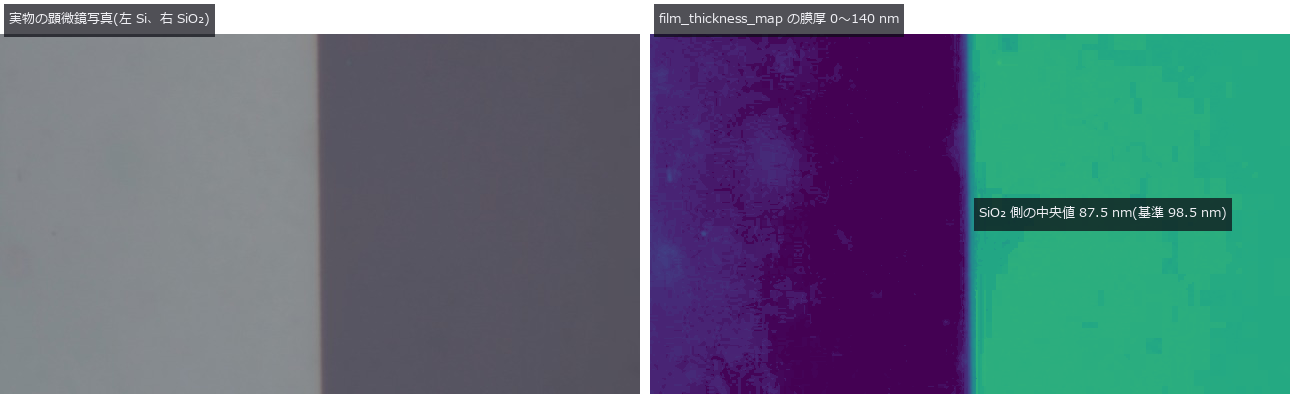
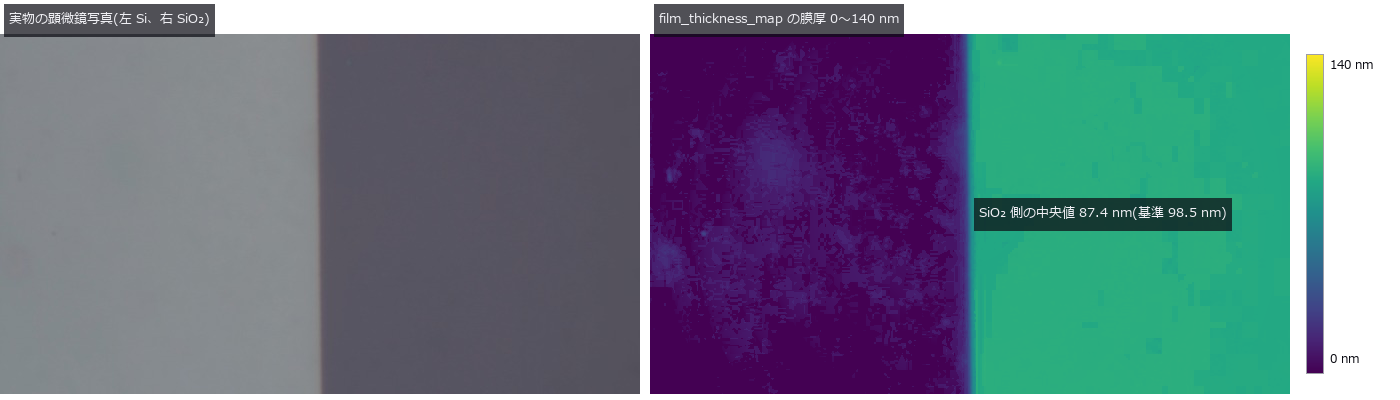
薄膜 PoC の実物の写真: 膜厚マップに色の目盛り + 周辺減光を裸の Si だけで当てはめて割る(Si 側が 2 段に見えた原因)
- 原因: 写真は視野の中心が明るい周辺減光(端で -8.8 %)。0 nm 付近は反射率が膜厚の 2 乗でしか下がらないので、Si 側の暗い所が
  10〜17 nm の「薄い膜」に化け、明るい所は 0 nm に張り付いて 2 段に見えた。
- 直し: 減光 V = c0 + c1 r² を裸の Si の側だけで当てはめて視野全体を割る。SiO2 側(当てはめに未使用)の明るさの傾きが
  -11.0 % → -1.1 % になる門を足した(独立の検算)。Si 側は中央値 0.0 nm・95 パーセンタイル 12 nm、SiO2 側は中央値 87.4 nm
  (5〜95 パーセンタイル 84.2〜87.9 nm)。図の説明に理由と数字を書いた。門 37 件。
- 膜厚マップに色の目盛り(annotate_colorbar、0〜140 nm)。

Changed region(s): [[0.4341, 0.0, 1.0, 0.99], [0.2171, 0.06, 0.2481, 0.99], [0.0, 0.0, 0.186, 0.09]]

diff --git a/studio_assets/op_help/annotate/annotate_colorbar.hi.html b/studio_assets/op_help/annotate/annotate_colorbar.hi.html
@@ -27,6 +27,7 @@
 <p style="margin:2px 0 2px 12px">• Algorithm का मानक स्रोत (लेखक, वर्ष) और उपयोग ऊपर की <b>family usage guide</b> में दिए गए हैं।</p>
 <h3 style="color:#17b8a6;margin:10px 0 2px 0">चलाए जा सकने वाले उदाहरण (verified samples जो सच में यह op call करते हैं)</h3>
 <p style="margin:2px 0 2px 12px">• <a style="color:#22d3bf" href="example2d:paper_figure">paper_figure</a> — <code style="color:#22d3bf">py -3.11 examples/paper_figure.py</code></p>
+<p style="margin:2px 0 2px 12px">• <a style="color:#22d3bf" href="example2d:poc_thin_film_reflectometry">poc_thin_film_reflectometry</a> — <code style="color:#22d3bf">py -3.11 examples/poc_thin_film_reflectometry.py</code></p>
 <h3 style="color:#17b8a6;margin:10px 0 2px 0">वे अगले ops जिनसे type जुड़ता है (<code style="color:#22d3bf">image2d</code> को input के रूप में लेते हैं)</h3>
 <p><a style="color:#22d3bf" href="opannotate:text_box">text_box</a> · <a style="color:#22d3bf" href="opannotate:arrow">arrow</a> · <a style="color:#22d3bf" href="opannotate:leader_line">leader_line</a> · <a style="color:#22d3bf" href="opannotate:label_points">label_points</a> · <a style="color:#22d3bf" href="opannotate:crosshair">crosshair</a> · <a style="color:#22d3bf" href="opannotate:legend_box">legend_box</a> · <a style="color:#22d3bf" href="opannotate:color_bar">color_bar</a> · <a style="color:#22d3bf" href="opannotate:scale_bar">scale_bar</a></p>
 <h3 style="color:#17b8a6;margin:10px 0 2px 0">इसी category के (<code style="color:#22d3bf">paper</code>)</h3>

diff --git a/studio_assets/op_help/annotate/annotate_colorbar.ko.html b/studio_assets/op_help/annotate/annotate_colorbar.ko.html
@@ -27,6 +27,7 @@
 <p style="margin:2px 0 2px 12px">• 알고리즘의 정전(저자·연도)과 용도는 위의 <b>패밀리 사용 가이드</b>에 적혀 있습니다.</p>
 <h3 style="color:#17b8a6;margin:10px 0 2px 0">실행 가능한 예제(이 연산자를 실제로 호출하는 검증된 샘플)</h3>
 <p style="margin:2px 0 2px 12px">• <a style="color:#22d3bf" href="example2d:paper_figure">paper_figure</a> — <code style="color:#22d3bf">py -3.11 examples/paper_figure.py</code></p>
+<p style="margin:2px 0 2px 12px">• <a style="color:#22d3bf" href="example2d:poc_thin_film_reflectometry">poc_thin_film_reflectometry</a> — <code style="color:#22d3bf">py -3.11 examples/poc_thin_film_reflectometry.py</code></p>
 <h3 style="color:#17b8a6;margin:10px 0 2px 0">타입이 이어지는 다음 연산자(<code style="color:#22d3bf">image2d</code> 를 입력으로 받는 것)</h3>
 <p><a style="color:#22d3bf" href="opannotate:text_box">text_box</a> · <a style="color:#22d3bf" href="opannotate:arrow">arrow</a> · <a style="color:#22d3bf" href="opannotate:leader_line">leader_line</a> · <a style="color:#22d3bf" href="opannotate:label_points">label_points</a> · <a style="color:#22d3bf" href="opannotate:crosshair">crosshair</a> · <a style="color:#22d3bf" href="opannotate:legend_box">legend_box</a> · <a style="color:#22d3bf" href="opannotate:color_bar">color_bar</a> · <a style="color:#22d3bf" href="opannotate:scale_bar">scale_bar</a></p>
 <h3 style="color:#17b8a6;margin:10px 0 2px 0">같은 카테고리(<code style="color:#22d3bf">paper</code>)</h3>

diff --git a/studio_assets/op_help/annotate/annotate_colorbar.de.html b/studio_assets/op_help/annotate/annotate_colorbar.de.html
@@ -27,6 +27,7 @@
 <p style="margin:2px 0 2px 12px">• Der kanonische Algorithmus (Autor, Jahr) und seine Anwendungen stehen im <b>Familienleitfaden</b> oben.</p>
 <h3 style="color:#17b8a6;margin:10px 0 2px 0">Ausführbare Beispiele (verifizierte Samples, die diesen Operator wirklich aufrufen)</h3>
 <p style="margin:2px 0 2px 12px">• <a style="color:#22d3bf" href="example2d:paper_figure">paper_figure</a> — <code style="color:#22d3bf">py -3.11 examples/paper_figure.py</code></p>
+<p style="margin:2px 0 2px 12px">• <a style="color:#22d3bf" href="example2d:poc_thin_film_reflectometry">poc_thin_film_reflectometry</a> — <code style="color:#22d3bf">py -3.11 examples/poc_thin_film_reflectometry.py</code></p>
 <h3 style="color:#17b8a6;margin:10px 0 2px 0">Typkompatible Folge-Operatoren (nehmen <code style="color:#22d3bf">image2d</code> als Eingabe)</h3>
 <p><a style="color:#22d3bf" href="opannotate:text_box">text_box</a> · <a style="color:#22d3bf" href="opannotate:arrow">arrow</a> · <a style="color:#22d3bf" href="opannotate:leader_line">leader_line</a> · <a style="color:#22d3bf" href="opannotate:label_points">label_points</a> · <a style="color:#22d3bf" href="opannotate:crosshair">crosshair</a> · <a style="color:#22d3bf" href="opannotate:legend_box">legend_box</a> · <a style="color:#22d3bf" href="opannotate:color_bar">color_bar</a> · <a style="color:#22d3bf" href="opannotate:scale_bar">scale_bar</a></p>
 <h3 style="color:#17b8a6;margin:10px 0 2px 0">Gleiche Kategorie (<code style="color:#22d3bf">paper</code>)</h3>

diff --git a/studio_assets/op_help/annotate/annotate_colorbar.html b/studio_assets/op_help/annotate/annotate_colorbar.html
@@ -27,6 +27,7 @@
 <p style="margin:2px 0 2px 12px">• アルゴリズムの正典(著者・年)と用途は上記<b>ファミリ使い方ガイド</b>に記載。</p>
 <h3 style="color:#17b8a6;margin:10px 0 2px 0">実行できる例(この op を実際に呼ぶ検証済みサンプル)</h3>
 <p style="margin:2px 0 2px 12px">• <a style="color:#22d3bf" href="example2d:paper_figure">paper_figure</a> — <code style="color:#22d3bf">py -3.11 examples/paper_figure.py</code></p>
+<p style="margin:2px 0 2px 12px">• <a style="color:#22d3bf" href="example2d:poc_thin_film_reflectometry">poc_thin_film_reflectometry</a> — <code style="color:#22d3bf">py -3.11 examples/poc_thin_film_reflectometry.py</code></p>
 <h3 style="color:#17b8a6;margin:10px 0 2px 0">型が繋がる次の op(<code style="color:#22d3bf">image2d</code> を入力に取れる)</h3>
 <p><a style="color:#22d3bf" href="opannotate:text_box">text_box</a> · <a style="color:#22d3bf" href="opannotate:arrow">arrow</a> · <a style="color:#22d3bf" href="opannotate:leader_line">leader_line</a> · <a style="color:#22d3bf" href="opannotate:label_points">label_points</a> · <a style="color:#22d3bf" href="opannotate:crosshair">crosshair</a> · <a style="color:#22d3bf" href="opannotate:legend_box">legend_box</a> · <a style="color:#22d3bf" href="opannotate:color_bar">color_bar</a> · <a style="color:#22d3bf" href="opannotate:scale_bar">scale_bar</a></p>
 <h3 style="color:#17b8a6;margin:10px 0 2px 0">同カテゴリ(<code style="color:#22d3bf">paper</code>)</h3>

diff --git a/studio_assets/op_help/annotate/annotate_colorbar.en.html b/studio_assets/op_help/annotate/annotate_colorbar.en.html
@@ -27,6 +27,7 @@
 <p style="margin:2px 0 2px 12px">• The canonical algorithm (author, year) and its uses are named in the <b>family usage guide</b> above.</p>
 <h3 style="color:#17b8a6;margin:10px 0 2px 0">Runnable examples (verified samples that actually call this op)</h3>
 <p style="margin:2px 0 2px 12px">• <a style="color:#22d3bf" href="example2d:paper_figure">paper_figure</a> — <code style="color:#22d3bf">py -3.11 examples/paper_figure.py</code></p>
+<p style="margin:2px 0 2px 12px">• <a style="color:#22d3bf" href="example2d:poc_thin_film_reflectometry">poc_thin_film_reflectometry</a> — <code style="color:#22d3bf">py -3.11 examples/poc_thin_film_reflectometry.py</code></p>
 <h3 style="color:#17b8a6;margin:10px 0 2px 0">Ops the type connects to (they accept <code style="color:#22d3bf">image2d</code> as input)</h3>
 <p><a style="color:#22d3bf" href="opannotate:text_box">text_box</a> · <a style="color:#22d3bf" href="opannotate:arrow">arrow</a> · <a style="color:#22d3bf" href="opannotate:leader_line">leader_line</a> · <a style="color:#22d3bf" href="opannotate:label_points">label_points</a> · <a style="color:#22d3bf" href="opannotate:crosshair">crosshair</a> · <a style="color:#22d3bf" href="opannotate:legend_box">legend_box</a> · <a style="color:#22d3bf" href="opannotate:color_bar">color_bar</a> · <a style="color:#22d3bf" href="opannotate:scale_bar">scale_bar</a></p>
 <h3 style="color:#17b8a6;margin:10px 0 2px 0">Same category (<code style="color:#22d3bf">paper</code>)</h3>

diff --git a/studio_assets/op_help/annotate/annotate_colorbar.tw.html b/studio_assets/op_help/annotate/annotate_colorbar.tw.html
@@ -27,6 +27,7 @@
 <p style="margin:2px 0 2px 12px">• 演算法的正典(作者、年份)與用途見上面的<b>族使用指南</b>。</p>
 <h3 style="color:#17b8a6;margin:10px 0 2px 0">可執行的範例(實際呼叫該運算子並已驗證的樣例)</h3>
 <p style="margin:2px 0 2px 12px">• <a style="color:#22d3bf" href="example2d:paper_figure">paper_figure</a> — <code style="color:#22d3bf">py -3.11 examples/paper_figure.py</code></p>
+<p style="margin:2px 0 2px 12px">• <a style="color:#22d3bf" href="example2d:poc_thin_film_reflectometry">poc_thin_film_reflectometry</a> — <code style="color:#22d3bf">py -3.11 examples/poc_thin_film_reflectometry.py</code></p>
 <h3 style="color:#17b8a6;margin:10px 0 2px 0">型別可銜接的下一個運算子(可接受 <code style="color:#22d3bf">image2d</code> 作為輸入)</h3>
 <p><a style="color:#22d3bf" href="opannotate:text_box">text_box</a> · <a style="color:#22d3bf" href="opannotate:arrow">arrow</a> · <a style="color:#22d3bf" href="opannotate:leader_line">leader_line</a> · <a style="color:#22d3bf" href="opannotate:label_points">label_points</a> · <a style="color:#22d3bf" href="opannotate:crosshair">crosshair</a> · <a style="color:#22d3bf" href="opannotate:legend_box">legend_box</a> · <a style="color:#22d3bf" href="opannotate:color_bar">color_bar</a> · <a style="color:#22d3bf" href="opannotate:scale_bar">scale_bar</a></p>
 <h3 style="color:#17b8a6;margin:10px 0 2px 0">同類別(<code style="color:#22d3bf">paper</code>)</h3>

diff --git a/studio_assets/op_help/annotate/annotate_colorbar.zh.html b/studio_assets/op_help/annotate/annotate_colorbar.zh.html
@@ -27,6 +27,7 @@
 <p style="margin:2px 0 2px 12px">• 算法的正典(作者、年份)与用途见上面的<b>族使用指南</b>。</p>
 <h3 style="color:#17b8a6;margin:10px 0 2px 0">可运行的示例(实际调用该算子并已验证的样例)</h3>
 <p style="margin:2px 0 2px 12px">• <a style="color:#22d3bf" href="example2d:paper_figure">paper_figure</a> — <code style="color:#22d3bf">py -3.11 examples/paper_figure.py</code></p>
+<p style="margin:2px 0 2px 12px">• <a style="color:#22d3bf" href="example2d:poc_thin_film_reflectometry">poc_thin_film_reflectometry</a> — <code style="color:#22d3bf">py -3.11 examples/poc_thin_film_reflectometry.py</code></p>
 <h3 style="color:#17b8a6;margin:10px 0 2px 0">类型可衔接的下一个算子(可接受 <code style="color:#22d3bf">image2d</code> 作为输入)</h3>
 <p><a style="color:#22d3bf" href="opannotate:text_box">text_box</a> · <a style="color:#22d3bf" href="opannotate:arrow">arrow</a> · <a style="color:#22d3bf" href="opannotate:leader_line">leader_line</a> · <a style="color:#22d3bf" href="opannotate:label_points">label_points</a> · <a style="color:#22d3bf" href="opannotate:crosshair">crosshair</a> · <a style="color:#22d3bf" href="opannotate:legend_box">legend_box</a> · <a style="color:#22d3bf" href="opannotate:color_bar">color_bar</a> · <a style="color:#22d3bf" href="opannotate:scale_bar">scale_bar</a></p>
 <h3 style="color:#17b8a6;margin:10px 0 2px 0">同类别(<code style="color:#22d3bf">paper</code>)</h3>

diff --git a/examples2d.py b/examples2d.py
@@ -1436,7 +1436,7 @@ EXAMPLES = [
      "summary": "ダイのボンディングやコネクタのピンは、高さの違う面の寸法を 1 枚の画像で測る。通常のレンズは近い面ほど大きく写すので段差の上と下で同じ寸法が違って写り、テレセントリックレンズは絞りを焦点に置いて主光線を光軸に平行にしてこれを消す。新 op 7 本(`telecentric`、`opsoptics` の `telecentric`): `telecentric_lens`(同じ N-BK7 の単レンズ f = 100 mm の絞りの位置だけを変えた通常 / 物体側 / 両側テレセン)/ `chief_ray_angle`(光線を入射瞳でなく絞りへ Newton 法で狙うので、入射瞳が無限遠でも動く —— `raytrace.chief_ray` はここで止まる)/ `magnification_vs_depth` / `telecentricity_error` / `defocus_spot_vs_depth` / `vignetting_vs_field` / `lens_equivalent_pinhole`(入射瞳に置いた `render3d` のピンホール)。像面を固定して物体を +5 mm 近づけると、作動距離 75 mm の FA レンズ(f = 25 mm)は倍率 +6.9 %、通常 f = 100 mm は +1.7 %、テレセンは −0.013 % で、実光線は閉形式 L/(L − Δz) と 7e-5 で一致する。オートフォーカスで合わせ直しても m = −f/(s − f) で +2.6 % 動き、戻らない。ピン(高さ 5 mm)・電極つきのダイ・穴(深さ 5 mm)を 3 種のレンズで描くと、FA レンズは画像から測ったピン上面の径を 6.9 % 大きく読み(閉形式と 7e-4)、ワークが 6 mm 上下すると読みが 8.6 % 動き、穴の内壁が 2,053 画素見えて底が 0.948 しか見えない(円の重なりの閉形式 0.949)。両側テレセンでは底が全部見え、内壁は 0 画素。部品はアルミの治具プレート・金めっきのピン・黒い樹脂モールドと銀色のリードの質感で描き(metalfinish の削り目と金属の複素屈折率の色、surfacelib の上塗り、影と AO)、照明を同軸落射・ドーム・低角リングに変えても、描いた画像から円の計測モデル(metrology)で測ったピン上面の径は閉形式と 0.34 % 以内、6 mm の上下で通常 f=25 は +8.3〜8.4 %、両側テレセンは ±0.13 % 以内。★物体で 47 µm/画素に粗くすると低角リングでは 2 % 外れた(暗視野で上面の縁が弱い)。★テレセンでも残る: 単レンズは瞳の球面収差で物高 8 mm のテレセン度が 0.05°(h³ で育つ)、物体側テレセンの歪曲は 3 %(両側の対称な配置では 0.005 %)。絞りのずれ δ は Newton の式で入射瞳を −f²/δ に動かし、物高 0.5 mm では閉形式と 0.04 %、8 mm では 11.8 % 大きい。テレセン度 0.1° が残ると段差 5 mm で 9.2 µm ずれる(閉形式 8.7 µm)。視野は前玉で決まり、50 % 点 11.6 mm は近軸の閉形式 12.4 mm より 0.8 mm 手前(瞳収差で光束が外へずれて太る)。ぼけの RMS の傾きは |m|·NA/√2 と 0.5 % 以内で、22 µm を回折で潰さない NA 0.033 では被写界深度は 0.68 mm が上限。第二の実装として OSS の optiland(MIT)と主光線の像の高さが 9e-8 mm で一致(屈折率は同じ Schott の係数なので、見ているのは光線追跡と狙いの実装)。学習 0、較正 0、門 24 件。"},
     {"id": "poc_thin_film_reflectometry", "task": "optics_sensing", "data": "real",
      "name": "分光反射率で薄膜の膜厚を測る ―― 公開の実測データで採点し、縞・干渉色・FFT とあてはめ・膜厚むらの画像へ",
-     "summary": "Si 上の SiO₂ の膜厚を反射スペクトルの干渉縞から測る op 5 本(`filmoptics`、`opsoptics` の `film`): `multilayer_reflectance`(転送行列)/ `film_color` / `film_thickness_fft` / `film_thickness_fit` / `film_thickness_map`。膜も基板も材料表(`materials`)の鍵で引く。★主役は他人が測った実物のデータ(どちらも CC BY 4.0): Schwarz ら 2024 の顕微分光では、裸の Si の実測反射率が材料表の Si と中央値 0.4 % 差、SiO₂ の膜厚は直入射のモデルで 92.9 nm(基準 98.5 nm と −5.7 %)、残差が最小の NA 0.5 を入れると 95.8 nm(−2.7 %)。測定点の被覆率は 11 点を平均 0.6 点の誤差で読み返す。同じ試料の実物のカラー顕微鏡写真からは、裸の Si で白を合わせるだけで画素ごとの膜厚が出て中央値 87.5 nm(−11 %、カメラの分光感度は不明)。Sánchez-Arriaga ら 2023 の安価な分光器では、標準 476.3 nm が 5 本すべて 2 % 以内、198.7 nm は中央値 +6.6 % で、1 本は最良の候補が 51 nm に外れて正しい値は 2 番目の候補に残る。FFT 法は 98 nm の膜を自分で「信頼できない」と言う(下限の閉形式 554 nm)。合成の章: 1 層は Airy の式(別実装)と 3e-15、縞の本数は d·Δx と ±1、FFT の下限の閉形式 538 nm と実測 525 nm、材料の取り違え・入射角・NA の偏りは閉形式どおり。公表の色表との色相の一致は 1〜3 次で 59 %(弱い門)。模型のウェハ(彗星は縁まで半径方向、縁の盛り上がり、芯ずれの輪 —— 量は文献表に結びつけ、無いものは模型と明記)では分光 31 帯域の膜厚マップが RMS 0.17 nm、RGB は候補が複数の画素が 14 %。学習 0、門 36 件。"},
+     "summary": "Si 上の SiO₂ の膜厚を反射スペクトルの干渉縞から測る op 5 本(`filmoptics`、`opsoptics` の `film`): `multilayer_reflectance`(転送行列)/ `film_color` / `film_thickness_fft` / `film_thickness_fit` / `film_thickness_map`。膜も基板も材料表(`materials`)の鍵で引く。★主役は他人が測った実物のデータ(どちらも CC BY 4.0): Schwarz ら 2024 の顕微分光では、裸の Si の実測反射率が材料表の Si と中央値 0.4 % 差、SiO₂ の膜厚は直入射のモデルで 92.9 nm(基準 98.5 nm と −5.7 %)、残差が最小の NA 0.5 を入れると 95.8 nm(−2.7 %)。測定点の被覆率は 11 点を平均 0.6 点の誤差で読み返す。同じ試料の実物のカラー顕微鏡写真からは、裸の Si で白を合わせるだけで画素ごとの膜厚が出て中央値 87.4 nm(−11 %、カメラの分光感度は不明)。Sánchez-Arriaga ら 2023 の安価な分光器では、標準 476.3 nm が 5 本すべて 2 % 以内、198.7 nm は中央値 +6.6 % で、1 本は最良の候補が 51 nm に外れて正しい値は 2 番目の候補に残る。FFT 法は 98 nm の膜を自分で「信頼できない」と言う(下限の閉形式 554 nm)。合成の章: 1 層は Airy の式(別実装)と 3e-15、縞の本数は d·Δx と ±1、FFT の下限の閉形式 538 nm と実測 525 nm、材料の取り違え・入射角・NA の偏りは閉形式どおり。公表の色表との色相の一致は 1〜3 次で 59 %(弱い門)。模型のウェハ(彗星は縁まで半径方向、縁の盛り上がり、芯ずれの輪 —— 量は文献表に結びつけ、無いものは模型と明記)では分光 31 帯域の膜厚マップが RMS 0.17 nm、RGB は候補が複数の画素が 14 %。学習 0、門 37 件。"},
     {"id": "poc_nir_silicon_transmission", "task": "optics_sensing", "data": "synthetic",
      "name": "Si ウェハ越しの近赤外透過検査 ―― 光源 × ウェハ × センサの波長積分で LED の波長を選ぶ",
      "summary": "Si のダイやウェハの裏側は、Si が透ける近赤外の光で見る。ところが Si が透ける波長は Si のセンサが感じない波長でもあり、同じ材料の吸収端が観察対象では窓・センサでは壁になる。材料表(`materials`)の 1 つの Si のレコード(Green 2008)を、ウェハの透過率とフォトダイオードの QE の両方に使った。新 op 9 本(`spectralrad`、`opsoptics` の `spectral`): `blackbody_spectrum` / `cie_illuminant_a` / `led_spectrum` / `bandpass_spectrum` / `silicon_photodiode_qe` / `energy_to_photons` / `spectral_product` / `spectral_integral` / `spectral_stats`、どれも材料の曲線と同じ pairs(λ nm, 値)。光源は CIE A の表を定義式で 1.6e-6、黒体は Wien と Stefan–Boltzmann、QE は閉形式と 4e-19。最良の LED のピークはウェハが厚いほど長波長へ動く(50 µm → 935 nm、775 µm → 1065 nm)。定番の 1050 nm の LED は厚いウェハでは最良と 5 % 差だが、50 µm のダイでは最良の 1/3.4 しか電子が出ない。ウェハが最もよく透ける 1200 nm は、Si センサでは最良の 1/28。集める深さを 3 → 50 µm にすると電子は 16 倍だが、最良のピークは動かない(最適はウェハが決める)。775 µm 越しに CNR 20 を得るには開口 1 画素に 1.2e6 光子が要る。像から測った CNR は理論 e/√(e + 読出し²) と 10 % 以内。ウェハの厚さだけ機械的に焦点を下げると像は t(1 − 1/n) = 557 µm ずれ(W20 = 2.6 波長、回折の PSF)、縁の幅が 8 倍に崩れる。学習 0、較正 0、門 20 件。"},

diff --git a/examples/poc_thin_film_reflectometry.py b/examples/poc_thin_film_reflectometry.py
@@ -271,16 +271,42 @@ def chapter_real():
     from PIL import Image
     im = np.asarray(Image.open(os.path.join(REAL, "schwarz2024_micrograph_sio2_edge_640.jpg")).convert("RGB"), float) / 255.0
     lin = np.where(im <= 0.04045, im / 12.92, ((im + 0.055) / 1.055) ** 2.4)
-    w = lin.shape[1]
-    bare_rgb = lin[30:-30, 30:w // 2 - 50].reshape(-1, 3).mean(0)
+    h, w = lin.shape[:2]
+    yy, xx = np.mgrid[0:h, 0:w]
+    si = (xx >= 20) & (xx < w // 2 - 40) & (yy >= 20) & (yy < h - 20)          # 裸の Si(左)
+    fi = (xx >= w // 2 + 50) & (xx < w - 20) & (yy >= 20) & (yy < h - 20)       # SiO₂(右)
+    # ★フラット補正(2026-10-15、図を見たユーザーの指摘「Si 側が 2 段に分かれて見える」から): 写真は視野の中心が明るい
+    #   周辺減光を持つ(裸の Si は左端 0.238 → 中央寄り 0.263、SiO₂ は中央寄り 0.103 → 右端 0.095)。補正しないと、Si の
+    #   暗い側が「薄い膜」と読まれ(0 nm 付近は R が膜厚の 2 乗でしか下がらないので、数 % の明るさの差が 10〜17 nm に化ける)、
+    #   明るい側は 0 nm に張り付いて、2 段に見えた。減光を半径の 2 乗 V = c₀ + c₁ r² として**裸の Si の側だけ**で当てはめ、
+    #   視野全体を割る。SiO₂ の側は当てはめに使っていないので、その明るさの傾きが消えるかが独立の検算になる。
+    r2 = ((xx - w / 2) ** 2 + (yy - h / 2) ** 2) / (w / 2) ** 2
+    lum = lin.mean(2)
+    c0, c1 = np.linalg.lstsq(np.column_stack([np.ones(int(si.sum())), r2[si]]), lum[si], rcond=None)[0]
+    flat = lin / (1.0 + (c1 / c0) * r2)[..., None]
+
+    def _tilt(img, m_):
+        return float(np.polyfit(xx[m_], img.mean(2)[m_], 1)[0] * (w / 2) / img.mean(2)[m_].mean())
+
+    bare_rgb = flat[si].mean(0)
     col0 = FO.film_color("SIO2", "SI", 0.0, 1.0, 2)["linear_srgb"][0]
-    balanced = lin / bare_rgb * col0                           # 裸の Si が材料表の Si の色になるよう、チャンネルごとに合わせる
+    balanced = flat / bare_rgb * col0                          # 裸の Si が材料表の Si の色になるよう、チャンネルごとに合わせる
     m = FO.film_thickness_map(np.moveaxis(balanced, -1, 0), None, "SIO2", "SI", 0.0, 400.0, mode="srgb", step_nm=0.5,
                               ambiguity_rms=0.01)
-    film_px = m["thickness"][30:-30, w // 2 + 60:w - 30]
-    bare_px = m["thickness"][30:-30, 30:w // 2 - 50]
+    film_px, bare_px = m["thickness"][fi], m["thickness"][si]
     NUMBERS.update({"real_rgb_film": float(np.median(film_px)), "real_rgb_bare": float(np.median(bare_px)),
-                    "real_rgb_cands": float(np.median(m["n_candidates"][30:-30, w // 2 + 60:w - 30]))})
+                    "real_rgb_bare_p95": float(np.percentile(bare_px, 95)),
+                    "real_rgb_film_p5": float(np.percentile(film_px, 5)), "real_rgb_film_p95": float(np.percentile(film_px, 95)),
+                    "real_vignette": float(c1 / c0), "real_tilt_before": _tilt(lin, fi), "real_tilt_after": _tilt(flat, fi),
+                    "real_rgb_cands": float(np.median(m["n_candidates"][fi]))})
+    print("      周辺減光(裸の Si だけで当てはめ)%.1f %%(視野の端)、SiO₂ 側の明るさの傾き %+.1f %% → %+.1f %%(当てはめに未使用 = 独立の検算)"
+          % (100 * NUMBERS["real_vignette"], 100 * NUMBERS["real_tilt_before"], 100 * NUMBERS["real_tilt_after"]))
+    print("      Si 側の膜厚 中央値 %.1f nm・95 パーセンタイル %.1f nm(0 nm 付近は R が膜厚の 2 乗でしか動かず、雑音が数 nm に化ける)、"
+          "SiO₂ 側 5〜95 パーセンタイル %.1f〜%.1f nm" % (NUMBERS["real_rgb_bare"], NUMBERS["real_rgb_bare_p95"],
+                                                   NUMBERS["real_rgb_film_p5"], NUMBERS["real_rgb_film_p95"]))
+    gate("フラット補正: 裸の Si で当てはめた周辺減光で割ると、SiO₂ 側の明るさの傾きが 1/5 以下に(%+.1f %% → %+.1f %%)"
+         % (100 * NUMBERS["real_tilt_before"], 100 * NUMBERS["real_tilt_after"]),
+         abs(NUMBERS["real_tilt_after"]) < 0.2 * abs(NUMBERS["real_tilt_before"]))
     out["photo"] = (im, m)
     gate("★実物の写真(カメラ不明・JPEG)から: SiO₂ 側の膜厚の中央値 %.1f nm(基準 %.1f nm と %+.0f %%)、裸の Si 側 %.1f nm、"
          "0〜400 nm で候補 %.0f 個 —— 次数は合うが、分光より %.0f 倍粗い"
@@ -759,9 +785,19 @@ def make_figures(lam, chart, est, imgs, ident, micro, real):
     im, m = real["photo"]
     h, w = im.shape[:2]
     tm = _cmap(m["thickness"], (0.0, 140.0))
+    import fullseye as fs
+    ramp = np.asarray(_cmap(np.linspace(0.0, 1.0, 256)[None, :], (0.0, 1.0)))[0]
+    pane = np.ones((h, w + 110, 3))
+    pane[:, :w] = tm
+    field = np.zeros((h, w + 110))
+    field[:, :w] = m["thickness"]
+    mk = np.zeros((h, w + 110), bool)
+    mk[:, :w] = True
+    pane = np.asarray(fs.annotate_colorbar(pane, field, (w + 16, 20, 18, h - 40), lut=ramp, vmin=0.0, vmax=140.0,
+                                           alpha=0.0, mask=mk, unit="nm", label_fmt="{:.0f}", font_size=12))[..., :3]
     gap = np.ones((h, 10, 3))
-    canvas = np.ones((h + 40, 2 * w + 10, 3))
-    canvas[34:34 + h] = np.concatenate([im, gap, tm], axis=1)
+    canvas = np.ones((h + 40, 2 * w + 120, 3))
+    canvas[34:34 + h] = np.concatenate([im, gap, pane], axis=1)
     canvas = _lab_text(canvas, "実物の顕微鏡写真(左 Si、右 SiO₂)", (4, 4), 13)
     canvas = _lab_text(canvas, "film_thickness_map の膜厚 0〜140 nm", (w + 14, 4), 13)
     canvas = _lab_text(canvas, "SiO₂ 側の中央値 %.1f nm(基準 %.1f nm)" % (NUMBERS["real_rgb_film"], NUMBERS["real_ref"]),
@@ -769,8 +805,12 @@ def make_figures(lam, chart, est, imgs, ident, micro, real):
     figs.save("real_micrograph_thickness", canvas,
               "実物の顕微鏡のカラー写真(左が裸の Si、右が Si 上の SiO₂)から、裸の Si の領域で色を材料表の Si に合わせ、"
               "film_thickness_map(RGB)で画素ごとの膜厚を出した。SiO₂ 側の中央値 %.1f nm、基準 %.1f nm(%+.0f %%)。カメラの"
-              "分光感度は不明で、CIE の等色関数で代用している。" % (NUMBERS["real_rgb_film"], NUMBERS["real_ref"],
-                                                     100 * (NUMBERS["real_rgb_film"] / NUMBERS["real_ref"] - 1))
+              "分光感度は不明で、CIE の等色関数で代用している。視野の周辺減光(%.0f %%)は裸の Si の側だけで当てはめて割った"
+              "(SiO₂ 側の明るさの傾き %+.0f %% → %+.0f %%)。Si 側は中央値 %.1f nm だが 95 パーセンタイル %.0f nm —— 0 nm 付近では"
+              "反射率が膜厚の 2 乗でしか変わらないので、写真の明るさの揺れが数 nm に化ける(補正前は減光で Si 側が 2 段に分かれていた)。"
+              % (NUMBERS["real_rgb_film"], NUMBERS["real_ref"], 100 * (NUMBERS["real_rgb_film"] / NUMBERS["real_ref"] - 1),
+                 100 * NUMBERS["real_vignette"], 100 * NUMBERS["real_tilt_before"], 100 * NUMBERS["real_tilt_after"],
+                 NUMBERS["real_rgb_bare"], NUMBERS["real_rgb_bare_p95"])
               + "出典: Schwarz ら, Adv. Opt. Mater. (2024) doi:10.1002/adom.202402502、データ Zenodo 10.5281/zenodo.13753754(CC BY 4.0)。改変: 1920×1080 → 640×360 に縮小し JPEG で保存、右に計算した膜厚の図を並べた。")
     lamr = real["lam"]
     na_b, fit_b = real["fit_na"]

diff --git a/docs/OP_CATALOG.md b/docs/OP_CATALOG.md
@@ -428,7 +428,7 @@ Fullseye は説明可能な古典/幾何ビジョンの Physical-AI ツールキ
 - **TDI ラインスキャンとラインスキャン用レンズ ―― 段数で欠陥が見え、同期がずれると流れ、C マウントでは長いセンサの端が消える** — フィルム・鋼板・ウェハのように流れてくるものはラインセンサで撮り、暗いラインでは TDI で N 段ぶん露光を積む。新 op 6 本(`linescan`、`opsoptics` の `linescan`): `tdi_snr`(EMVA 1288 の式 21 を段数倍、電荷加算 / デジタル加算)/ `tdi_sync_mtf`(同期ずれ・ヨーの閉形式)/ `linescan_acquire`(反射率の地図を搬送して撮る: 速度誤差・ヨー・蛇行・エンコーダ同期・レンズ・雑音)/ `lens_field_profile`(像高ごとの照度と MTF を光線追跡で)/ `linescan_lens_columns` / `linescan_lens_example`。★1 段 40 光子の暗い冷延鋼板で、2 枚撮りの時間雑音から測った SNR は式 21 と全段数で 1.2 % 以内。デジタル加算は 64 段で ×8.09(√64 = 8)、電荷加算は読み出し雑音を 1 回しか払わないので ×26.9。薄い傷・ピンホール・異物の検出は 1 段 0 / 3 → 64 段 3 / 3(誤検出 0)。★同期ずれ ε で像が N·ε 画素流れ、流れ方向の MTF は |sinc(f N ε)| —— 閉形式を先に印字し、正弦波の板で 45 条件の最大差 0.0035。速度のうねり ±3 % は自走で局所 MTF 0.64 まで落ち、エンコーダ同期で 1.000 に戻る。ヨーの幅方向のぼけ |sinc(f N sin θ)| はエンコーダでは直らない(9 条件で最大差 0.0017)。★同じ形の三枚玉を 57 mm の像円用(f 90)と 2/3 型用(f 35、C マウントの流用)に作って光線追跡: 照度は cos⁴ × 瞳 × 歪曲に厳密に分かれ(最大差 2e-16)、ラインスキャン用は端で 0.976(cos⁴ は 0.855、樽型歪曲 −2.9 % が ×1.111)、C マウントは像高 19.7 mm から光が届かない。フラットフィールド補正で照度の幅は 0.961 → 1.000 に揃うが、正弦波の変調は補正の前後で差 0.0006(MTF は直らない)、像高 14 mm の異物の CNR は C マウントで 1.52 → 1.54 のまま(ラインスキャン用 2.49)。学習 0、較正 0、門 19 件。 `py -3.11 examples/poc_tdi_linescan.py`
 - **ピクセルシフト撮像 ―― センサを 1 画素動かすと偽色が消え、半画素動かすと折り返しが消える。MTF は上がらない** — 撮像素子を圧電アクチュエータで 1 画素 / 半画素ずつ動かして撮る「ピクセルシフト」が、外観検査で何を増やし何を増やさないか。新 op 6 本(`pixelshift`、`opsoptics` の `pixelshift`): `pixel_shift_pattern` / `pixel_shift_capture`(画素の開口の箱で厳密に積分、Bayer か白黒)/ `pixel_shift_merge`(公称のシフトで格子へ、埋められないシフト列は拒否)/ `pixel_shift_motion_mask` / `false_color_metric` / `pixel_shift_resolution_budget`(sinc × 回折 MTF、Q = λN/p)。1 画素シフト 4 枚は基板の配線・織物・網点・解像チャートで偽色を 0.043〜0.084 から 0 にする(静止・誤差 0 では定義上 0 —— 各画素の R・G・B が同じ開口で同じ点を見る)。半画素シフトでは 0.6〜0.9 cyc/px の縞の FFT の山が、1 枚の折り返し 1 − f₀ から本当の f₀ へ戻り、高さは 0.4·sinc(f₀) と 2e-14 で一致。★傾いたエッジの MTF50 は 1 枚 0.478・半画素 0.475・閉形式 0.467 cyc/px —— シフトで変わるのは折り返しで MTF ではない。drizzle(独立の実装)でも山は 0.700 に立ち、★センサのシフトをそのまま渡すと 0.300(符号の取り違えが折り返しに化ける)。画素 3.45 µm で F 1.4〜22 を振ると 0.7 cyc/px の変調は sinc·回折の閉形式と 0.0008 以内、Q > 1.43 で消え、解像の得は Q = 2 より手前の Q* = 1.47 で尽きる。開口率 0.5 なら 0.8 cyc/px の変調が 3.2 倍。壊れる条件: 1 枚だけ 0.05 px ずれた色の誤差は閉形式 2πf·a·sinc·δ/√2 と 1.2 %、乱数の誤差 σ = 0.1 px で偽色 0.012(1 枚のデモザイク 0.053)。搬送中の部品は 0.25 px/枚 までは 4 枚の破綻(0.161)が 1 枚のデモザイク(0.205)より小さく、0.5 px/枚 から逆転。動き検出で 1 枚に差し戻すと 1 枚の画質の天井に届き、静止部の誤検出 0 %。雑音は R・B が σ/√c、G が σ/√(2c) と 2.1 % 以内、動く縞では枚数を増やすほど誤差が増える(4 → 16 枚で 0.081 → 0.273)。学習 0、較正 0、門 28 件。 `py -3.11 examples/poc_pixel_shift.py`
 - **光ファイバとライトガイド ―― 材料表の溶融石英から、モード・分散・モード径・照明の効率まで** — 検査の照明はライトガイド(ファイバの束)で運び、干渉・分光の光は単一モードファイバで運ぶ。どちらもガラスの分散(材料表 `materials`)と導波の式で決まる。新 op 7 本(`fiberoptics`、`opsoptics` の `fiber`): `material_group_index` / `material_gvd` / `fiber_numerical_aperture` / `fiber_v_number` / `fiber_lp_modes`(弱導波の LP_lm の特性方程式を区間ごとに二分法で)/ `fiber_mode_field_diameter` / `fiber_bundle_coupling`。溶融石英の群屈折率は 1.55 µm で 1.4626、材料分散の零点は 1272.8 nm、D(1.55 µm) は 21.9 ps/(nm·km) と公表値の幅に入る。遮断は Bessel の零点(LP11 = 2.4048)の 0.001 上下でモード数が 2 → 6 と切り替わり、V = 30 でモード数 456 は V²/2 = 450 と 1.3 %、LP01 の b(V) は Rudolph–Neumann の近似と 0.24 %。★LP02 は遮断の直上で束縛が指数関数的に弱く、浮動小数で解けるのは遮断の 0.05 上から(op の docstring に限界として明記)。モード径は Marcuse 1977 の近似式と 0.8 % 以内、2 次モーメントの定義に変えると V = 1.2 で 11 % 大きい —— 「MFD」は定義を書かないと比べられない。コア半径 4.1 µm・NA 0.12 の設計は遮断 1285 nm、1310 nm の MFD 9.06 µm で ITU-T G.652 の 8.6〜9.5 µm に入る。Lambert の LED を NA の違う束に入れる割合は (NA_束/NA_光源)² の閉形式どおりで、LED → ライトガイド 2 m → Si ウェハ 775 µm → Si センサの鎖は光子 1 個あたり 2.2e-4 電子。学習 0、較正 0、門 17 件。 `py -3.11 examples/poc_fiber_light_guide.py`
-- **分光反射率で薄膜の膜厚を測る ―― 公開の実測データで採点し、縞・干渉色・FFT とあてはめ・膜厚むらの画像へ** — Si 上の SiO₂ の膜厚を反射スペクトルの干渉縞から測る op 5 本(`filmoptics`、`opsoptics` の `film`): `multilayer_reflectance`(転送行列)/ `film_color` / `film_thickness_fft` / `film_thickness_fit` / `film_thickness_map`。膜も基板も材料表(`materials`)の鍵で引く。★主役は他人が測った実物のデータ(どちらも CC BY 4.0): Schwarz ら 2024 の顕微分光では、裸の Si の実測反射率が材料表の Si と中央値 0.4 % 差、SiO₂ の膜厚は直入射のモデルで 92.9 nm(基準 98.5 nm と −5.7 %)、残差が最小の NA 0.5 を入れると 95.8 nm(−2.7 %)。測定点の被覆率は 11 点を平均 0.6 点の誤差で読み返す。同じ試料の実物のカラー顕微鏡写真からは、裸の Si で白を合わせるだけで画素ごとの膜厚が出て中央値 87.5 nm(−11 %、カメラの分光感度は不明)。Sánchez-Arriaga ら 2023 の安価な分光器では、標準 476.3 nm が 5 本すべて 2 % 以内、198.7 nm は中央値 +6.6 % で、1 本は最良の候補が 51 nm に外れて正しい値は 2 番目の候補に残る。FFT 法は 98 nm の膜を自分で「信頼できない」と言う(下限の閉形式 554 nm)。合成の章: 1 層は Airy の式(別実装)と 3e-15、縞の本数は d·Δx と ±1、FFT の下限の閉形式 538 nm と実測 525 nm、材料の取り違え・入射角・NA の偏りは閉形式どおり。公表の色表との色相の一致は 1〜3 次で 59 %(弱い門)。模型のウェハ(彗星は縁まで半径方向、縁の盛り上がり、芯ずれの輪 —— 量は文献表に結びつけ、無いものは模型と明記)では分光 31 帯域の膜厚マップが RMS 0.17 nm、RGB は候補が複数の画素が 14 %。学習 0、門 36 件。 `py -3.11 examples/poc_thin_film_reflectometry.py`
+- **分光反射率で薄膜の膜厚を測る ―― 公開の実測データで採点し、縞・干渉色・FFT とあてはめ・膜厚むらの画像へ** — Si 上の SiO₂ の膜厚を反射スペクトルの干渉縞から測る op 5 本(`filmoptics`、`opsoptics` の `film`): `multilayer_reflectance`(転送行列)/ `film_color` / `film_thickness_fft` / `film_thickness_fit` / `film_thickness_map`。膜も基板も材料表(`materials`)の鍵で引く。★主役は他人が測った実物のデータ(どちらも CC BY 4.0): Schwarz ら 2024 の顕微分光では、裸の Si の実測反射率が材料表の Si と中央値 0.4 % 差、SiO₂ の膜厚は直入射のモデルで 92.9 nm(基準 98.5 nm と −5.7 %)、残差が最小の NA 0.5 を入れると 95.8 nm(−2.7 %)。測定点の被覆率は 11 点を平均 0.6 点の誤差で読み返す。同じ試料の実物のカラー顕微鏡写真からは、裸の Si で白を合わせるだけで画素ごとの膜厚が出て中央値 87.4 nm(−11 %、カメラの分光感度は不明)。Sánchez-Arriaga ら 2023 の安価な分光器では、標準 476.3 nm が 5 本すべて 2 % 以内、198.7 nm は中央値 +6.6 % で、1 本は最良の候補が 51 nm に外れて正しい値は 2 番目の候補に残る。FFT 法は 98 nm の膜を自分で「信頼できない」と言う(下限の閉形式 554 nm)。合成の章: 1 層は Airy の式(別実装)と 3e-15、縞の本数は d·Δx と ±1、FFT の下限の閉形式 538 nm と実測 525 nm、材料の取り違え・入射角・NA の偏りは閉形式どおり。公表の色表との色相の一致は 1〜3 次で 59 %(弱い門)。模型のウェハ(彗星は縁まで半径方向、縁の盛り上がり、芯ずれの輪 —— 量は文献表に結びつけ、無いものは模型と明記)では分光 31 帯域の膜厚マップが RMS 0.17 nm、RGB は候補が複数の画素が 14 %。学習 0、門 37 件。 `py -3.11 examples/poc_thin_film_reflectometry.py`
 - **Si ウェハ越しの近赤外透過検査 ―― 光源 × ウェハ × センサの波長積分で LED の波長を選ぶ** — Si のダイやウェハの裏側は、Si が透ける近赤外の光で見る。ところが Si が透ける波長は Si のセンサが感じない波長でもあり、同じ材料の吸収端が観察対象では窓・センサでは壁になる。材料表(`materials`)の 1 つの Si のレコード(Green 2008)を、ウェハの透過率とフォトダイオードの QE の両方に使った。新 op 9 本(`spectralrad`、`opsoptics` の `spectral`): `blackbody_spectrum` / `cie_illuminant_a` / `led_spectrum` / `bandpass_spectrum` / `silicon_photodiode_qe` / `energy_to_photons` / `spectral_product` / `spectral_integral` / `spectral_stats`、どれも材料の曲線と同じ pairs(λ nm, 値)。光源は CIE A の表を定義式で 1.6e-6、黒体は Wien と Stefan–Boltzmann、QE は閉形式と 4e-19。最良の LED のピークはウェハが厚いほど長波長へ動く(50 µm → 935 nm、775 µm → 1065 nm)。定番の 1050 nm の LED は厚いウェハでは最良と 5 % 差だが、50 µm のダイでは最良の 1/3.4 しか電子が出ない。ウェハが最もよく透ける 1200 nm は、Si センサでは最良の 1/28。集める深さを 3 → 50 µm にすると電子は 16 倍だが、最良のピークは動かない(最適はウェハが決める)。775 µm 越しに CNR 20 を得るには開口 1 画素に 1.2e6 光子が要る。像から測った CNR は理論 e/√(e + 読出し²) と 10 % 以内。ウェハの厚さだけ機械的に焦点を下げると像は t(1 − 1/n) = 557 µm ずれ(W20 = 2.6 波長、回折の PSF)、縁の幅が 8 倍に崩れる。学習 0、較正 0、門 20 件。 `py -3.11 examples/poc_nir_silicon_transmission.py`
 - **材料の光学物性ライブラリ —— 硝材・結晶・半導体・金属・液体・プラスチック 83 種を 1 つの表にし、カタログ公表値と第二実装で採点** — 観察用の光学系(レンズ・窓・鏡・膜)も観察対象(ウェハ・モールド・はんだ)も、見え方は材料の光学特性で決まる。両方が**同じ材料表**を引けるように、硝材・結晶・半導体・金属・液体・プラスチック 83 種を 1 つのレコード型に載せ、波長曲線をすべて同じ形(λ [nm], 値)で返す新 op 16 本(`opsoptics` の `matprop`、実装 `materials`)。数値は refractiveindex.info database(CC0)の一次文献の係数と数表だけ(`tools/gen_material_tables.py` が生成、出典を各区間に残す)。★硝材 46 種(4 社のカタログ、Sellmeier 2 と Schott 多項式): 分散式から計算した n_d / V_d が**カタログ公表値と最大 4e-6 / 0.005**(門は 1e-4 / 0.3)。Abbe 図に 67 材料(プラスチックは同じ n_d の硝子より左、CaF₂ と石英は右端)。**第二実装 optiland 0.6.3**(同じ一次文献を別のコードで評価)と 23 点で最大 5e-10。★Si の NIR 窓(Green 2008): 公表の表の点 n(1.0 µm) 3.572 / k 5.09e-4、k(1.2 µm) 2.1e-7 を再現、吸収係数は 1.0 → 1.2 µm で 64 → 0.022 /cm(3 桁)、775 µm のウェハの透過率は 1.0 µm で 0.3 %・1.2 µm で 52 %(閉形式 (1−R)²e^{−αt}/(1−R²e^{−2αt}) と 1e-9、R = 0.31 の多重反射込み)。自由キャリア吸収(Schroder 1978)は λ² 則と p/n = 2.7 を 1e-9 で、1e19 cm⁻³ の基板は 1.3 µm でそれだけで ×0.27 に暗くなる。平行平板の焦点ずれ t(1 − 1/n) = 556 µm、縦球面収差は NA 0.1 で 1.0 µm・NA の 2 乗。★鏡の材料 10 種(Johnson & Christy / Rakić / Weaver / Werner): 銀は 500 nm で 0.982、アルミの谷は 820 nm で 0.866、金は 500 nm 0.475 → 700 nm 0.971。色は CIE 等色関数から出し、金と銅は R > G > B・銀は 3 成分が 1 % 以内で中性(塗っていない)。斜入射 60° で s 0.953 > p 0.829。★硝子とプラスチック: ポリカーボネートの分散は N-BK7 の 2.3 倍、dn/dT はカタログの式 A で基準温度(20 ℃ / 25 ℃)で Δn = 0、有限差分と 4e-8、N-BK7 の e 線で 1.62e-6 /K。係数の無い材料(PMMA・水)は ValueError で黙って 0 にしない。★取り込み口: .agf(硝材カタログ、Zemax の分散式 1〜13 全部)の雛形を読むと同梱レコードと 0、内部透過率の行から k を復元、自前の Sellmeier 係数と測った曲線(pairs)からもレコードを作れ、区間外は外挿しない。ユーザーのカタログは `FULLSEYE_GLASS_DIR` に置けば同名硝材を照合(無ければ「未配置」と明示)。学習した数 0、較正 0、門 38 件、図なしで 1 秒未満。 `py -3.11 examples/poc_material_optical_library.py`
 
@@ -4108,7 +4108,7 @@ _計 3233 ops / 48 families。並びとノートの在り処は `docs/ops/INDEX.
 #### annotate / paper(23)
 - `annotate_angle` `image2d → image2d` — 画像(image2d)を返す: 3 点のなす角を弧と値で示す(必要なら 2 本の腕も)。 · 例: `paper_figure`
 - `annotate_angle_layout` `入力なし → table` — table(dict)を返す: 3 点 ``a, vertex, b`` のなす角(小さい方)の弧と文字位置。 · 例: `paper_figure`
-- `annotate_colorbar` `image2d × image2d → image2d` — 画像(image2d)を返す: スカラ場を LUT で色分けして重ね、カラーバーを添える。 · 例: `paper_figure`
+- `annotate_colorbar` `image2d × image2d → image2d` — 画像(image2d)を返す: スカラ場を LUT で色分けして重ね、カラーバーを添える。 · 例: `paper_figure`, `poc_thin_film_reflectometry`
 - `annotate_dimension` `image2d → image2d` — 画像(image2d)を返す: 寸法線(両端矢じり + 補助線 + 値と単位)。 · 例: `paper_figure`
 - `annotate_dimension_layout` `入力なし → table` — table(dict)を返す: 寸法線の幾何(寸法線・補助線・文字位置)を閉形式で決める。 · 例: `paper_figure`
 - `annotate_figure_grid` `images → image2d` — 画像(image2d)を返す: 画像 + 見出しを一枚の図に組む(余白一定・パネル文字つき)。 · 例: `paper_figure`, `poc_pixel_shift`

diff --git a/fullseye/OP_CATALOG.md b/fullseye/OP_CATALOG.md
@@ -428,7 +428,7 @@ Fullseye は説明可能な古典/幾何ビジョンの Physical-AI ツールキ
 - **TDI ラインスキャンとラインスキャン用レンズ ―― 段数で欠陥が見え、同期がずれると流れ、C マウントでは長いセンサの端が消える** — フィルム・鋼板・ウェハのように流れてくるものはラインセンサで撮り、暗いラインでは TDI で N 段ぶん露光を積む。新 op 6 本(`linescan`、`opsoptics` の `linescan`): `tdi_snr`(EMVA 1288 の式 21 を段数倍、電荷加算 / デジタル加算)/ `tdi_sync_mtf`(同期ずれ・ヨーの閉形式)/ `linescan_acquire`(反射率の地図を搬送して撮る: 速度誤差・ヨー・蛇行・エンコーダ同期・レンズ・雑音)/ `lens_field_profile`(像高ごとの照度と MTF を光線追跡で)/ `linescan_lens_columns` / `linescan_lens_example`。★1 段 40 光子の暗い冷延鋼板で、2 枚撮りの時間雑音から測った SNR は式 21 と全段数で 1.2 % 以内。デジタル加算は 64 段で ×8.09(√64 = 8)、電荷加算は読み出し雑音を 1 回しか払わないので ×26.9。薄い傷・ピンホール・異物の検出は 1 段 0 / 3 → 64 段 3 / 3(誤検出 0)。★同期ずれ ε で像が N·ε 画素流れ、流れ方向の MTF は |sinc(f N ε)| —— 閉形式を先に印字し、正弦波の板で 45 条件の最大差 0.0035。速度のうねり ±3 % は自走で局所 MTF 0.64 まで落ち、エンコーダ同期で 1.000 に戻る。ヨーの幅方向のぼけ |sinc(f N sin θ)| はエンコーダでは直らない(9 条件で最大差 0.0017)。★同じ形の三枚玉を 57 mm の像円用(f 90)と 2/3 型用(f 35、C マウントの流用)に作って光線追跡: 照度は cos⁴ × 瞳 × 歪曲に厳密に分かれ(最大差 2e-16)、ラインスキャン用は端で 0.976(cos⁴ は 0.855、樽型歪曲 −2.9 % が ×1.111)、C マウントは像高 19.7 mm から光が届かない。フラットフィールド補正で照度の幅は 0.961 → 1.000 に揃うが、正弦波の変調は補正の前後で差 0.0006(MTF は直らない)、像高 14 mm の異物の CNR は C マウントで 1.52 → 1.54 のまま(ラインスキャン用 2.49)。学習 0、較正 0、門 19 件。 `py -3.11 examples/poc_tdi_linescan.py`
 - **ピクセルシフト撮像 ―― センサを 1 画素動かすと偽色が消え、半画素動かすと折り返しが消える。MTF は上がらない** — 撮像素子を圧電アクチュエータで 1 画素 / 半画素ずつ動かして撮る「ピクセルシフト」が、外観検査で何を増やし何を増やさないか。新 op 6 本(`pixelshift`、`opsoptics` の `pixelshift`): `pixel_shift_pattern` / `pixel_shift_capture`(画素の開口の箱で厳密に積分、Bayer か白黒)/ `pixel_shift_merge`(公称のシフトで格子へ、埋められないシフト列は拒否)/ `pixel_shift_motion_mask` / `false_color_metric` / `pixel_shift_resolution_budget`(sinc × 回折 MTF、Q = λN/p)。1 画素シフト 4 枚は基板の配線・織物・網点・解像チャートで偽色を 0.043〜0.084 から 0 にする(静止・誤差 0 では定義上 0 —— 各画素の R・G・B が同じ開口で同じ点を見る)。半画素シフトでは 0.6〜0.9 cyc/px の縞の FFT の山が、1 枚の折り返し 1 − f₀ から本当の f₀ へ戻り、高さは 0.4·sinc(f₀) と 2e-14 で一致。★傾いたエッジの MTF50 は 1 枚 0.478・半画素 0.475・閉形式 0.467 cyc/px —— シフトで変わるのは折り返しで MTF ではない。drizzle(独立の実装)でも山は 0.700 に立ち、★センサのシフトをそのまま渡すと 0.300(符号の取り違えが折り返しに化ける)。画素 3.45 µm で F 1.4〜22 を振ると 0.7 cyc/px の変調は sinc·回折の閉形式と 0.0008 以内、Q > 1.43 で消え、解像の得は Q = 2 より手前の Q* = 1.47 で尽きる。開口率 0.5 なら 0.8 cyc/px の変調が 3.2 倍。壊れる条件: 1 枚だけ 0.05 px ずれた色の誤差は閉形式 2πf·a·sinc·δ/√2 と 1.2 %、乱数の誤差 σ = 0.1 px で偽色 0.012(1 枚のデモザイク 0.053)。搬送中の部品は 0.25 px/枚 までは 4 枚の破綻(0.161)が 1 枚のデモザイク(0.205)より小さく、0.5 px/枚 から逆転。動き検出で 1 枚に差し戻すと 1 枚の画質の天井に届き、静止部の誤検出 0 %。雑音は R・B が σ/√c、G が σ/√(2c) と 2.1 % 以内、動く縞では枚数を増やすほど誤差が増える(4 → 16 枚で 0.081 → 0.273)。学習 0、較正 0、門 28 件。 `py -3.11 examples/poc_pixel_shift.py`
 - **光ファイバとライトガイド ―― 材料表の溶融石英から、モード・分散・モード径・照明の効率まで** — 検査の照明はライトガイド(ファイバの束)で運び、干渉・分光の光は単一モードファイバで運ぶ。どちらもガラスの分散(材料表 `materials`)と導波の式で決まる。新 op 7 本(`fiberoptics`、`opsoptics` の `fiber`): `material_group_index` / `material_gvd` / `fiber_numerical_aperture` / `fiber_v_number` / `fiber_lp_modes`(弱導波の LP_lm の特性方程式を区間ごとに二分法で)/ `fiber_mode_field_diameter` / `fiber_bundle_coupling`。溶融石英の群屈折率は 1.55 µm で 1.4626、材料分散の零点は 1272.8 nm、D(1.55 µm) は 21.9 ps/(nm·km) と公表値の幅に入る。遮断は Bessel の零点(LP11 = 2.4048)の 0.001 上下でモード数が 2 → 6 と切り替わり、V = 30 でモード数 456 は V²/2 = 450 と 1.3 %、LP01 の b(V) は Rudolph–Neumann の近似と 0.24 %。★LP02 は遮断の直上で束縛が指数関数的に弱く、浮動小数で解けるのは遮断の 0.05 上から(op の docstring に限界として明記)。モード径は Marcuse 1977 の近似式と 0.8 % 以内、2 次モーメントの定義に変えると V = 1.2 で 11 % 大きい —— 「MFD」は定義を書かないと比べられない。コア半径 4.1 µm・NA 0.12 の設計は遮断 1285 nm、1310 nm の MFD 9.06 µm で ITU-T G.652 の 8.6〜9.5 µm に入る。Lambert の LED を NA の違う束に入れる割合は (NA_束/NA_光源)² の閉形式どおりで、LED → ライトガイド 2 m → Si ウェハ 775 µm → Si センサの鎖は光子 1 個あたり 2.2e-4 電子。学習 0、較正 0、門 17 件。 `py -3.11 examples/poc_fiber_light_guide.py`
-- **分光反射率で薄膜の膜厚を測る ―― 公開の実測データで採点し、縞・干渉色・FFT とあてはめ・膜厚むらの画像へ** — Si 上の SiO₂ の膜厚を反射スペクトルの干渉縞から測る op 5 本(`filmoptics`、`opsoptics` の `film`): `multilayer_reflectance`(転送行列)/ `film_color` / `film_thickness_fft` / `film_thickness_fit` / `film_thickness_map`。膜も基板も材料表(`materials`)の鍵で引く。★主役は他人が測った実物のデータ(どちらも CC BY 4.0): Schwarz ら 2024 の顕微分光では、裸の Si の実測反射率が材料表の Si と中央値 0.4 % 差、SiO₂ の膜厚は直入射のモデルで 92.9 nm(基準 98.5 nm と −5.7 %)、残差が最小の NA 0.5 を入れると 95.8 nm(−2.7 %)。測定点の被覆率は 11 点を平均 0.6 点の誤差で読み返す。同じ試料の実物のカラー顕微鏡写真からは、裸の Si で白を合わせるだけで画素ごとの膜厚が出て中央値 87.5 nm(−11 %、カメラの分光感度は不明)。Sánchez-Arriaga ら 2023 の安価な分光器では、標準 476.3 nm が 5 本すべて 2 % 以内、198.7 nm は中央値 +6.6 % で、1 本は最良の候補が 51 nm に外れて正しい値は 2 番目の候補に残る。FFT 法は 98 nm の膜を自分で「信頼できない」と言う(下限の閉形式 554 nm)。合成の章: 1 層は Airy の式(別実装)と 3e-15、縞の本数は d·Δx と ±1、FFT の下限の閉形式 538 nm と実測 525 nm、材料の取り違え・入射角・NA の偏りは閉形式どおり。公表の色表との色相の一致は 1〜3 次で 59 %(弱い門)。模型のウェハ(彗星は縁まで半径方向、縁の盛り上がり、芯ずれの輪 —— 量は文献表に結びつけ、無いものは模型と明記)では分光 31 帯域の膜厚マップが RMS 0.17 nm、RGB は候補が複数の画素が 14 %。学習 0、門 36 件。 `py -3.11 examples/poc_thin_film_reflectometry.py`
+- **分光反射率で薄膜の膜厚を測る ―― 公開の実測データで採点し、縞・干渉色・FFT とあてはめ・膜厚むらの画像へ** — Si 上の SiO₂ の膜厚を反射スペクトルの干渉縞から測る op 5 本(`filmoptics`、`opsoptics` の `film`): `multilayer_reflectance`(転送行列)/ `film_color` / `film_thickness_fft` / `film_thickness_fit` / `film_thickness_map`。膜も基板も材料表(`materials`)の鍵で引く。★主役は他人が測った実物のデータ(どちらも CC BY 4.0): Schwarz ら 2024 の顕微分光では、裸の Si の実測反射率が材料表の Si と中央値 0.4 % 差、SiO₂ の膜厚は直入射のモデルで 92.9 nm(基準 98.5 nm と −5.7 %)、残差が最小の NA 0.5 を入れると 95.8 nm(−2.7 %)。測定点の被覆率は 11 点を平均 0.6 点の誤差で読み返す。同じ試料の実物のカラー顕微鏡写真からは、裸の Si で白を合わせるだけで画素ごとの膜厚が出て中央値 87.4 nm(−11 %、カメラの分光感度は不明)。Sánchez-Arriaga ら 2023 の安価な分光器では、標準 476.3 nm が 5 本すべて 2 % 以内、198.7 nm は中央値 +6.6 % で、1 本は最良の候補が 51 nm に外れて正しい値は 2 番目の候補に残る。FFT 法は 98 nm の膜を自分で「信頼できない」と言う(下限の閉形式 554 nm)。合成の章: 1 層は Airy の式(別実装)と 3e-15、縞の本数は d·Δx と ±1、FFT の下限の閉形式 538 nm と実測 525 nm、材料の取り違え・入射角・NA の偏りは閉形式どおり。公表の色表との色相の一致は 1〜3 次で 59 %(弱い門)。模型のウェハ(彗星は縁まで半径方向、縁の盛り上がり、芯ずれの輪 —— 量は文献表に結びつけ、無いものは模型と明記)では分光 31 帯域の膜厚マップが RMS 0.17 nm、RGB は候補が複数の画素が 14 %。学習 0、門 37 件。 `py -3.11 examples/poc_thin_film_reflectometry.py`
 - **Si ウェハ越しの近赤外透過検査 ―― 光源 × ウェハ × センサの波長積分で LED の波長を選ぶ** — Si のダイやウェハの裏側は、Si が透ける近赤外の光で見る。ところが Si が透ける波長は Si のセンサが感じない波長でもあり、同じ材料の吸収端が観察対象では窓・センサでは壁になる。材料表(`materials`)の 1 つの Si のレコード(Green 2008)を、ウェハの透過率とフォトダイオードの QE の両方に使った。新 op 9 本(`spectralrad`、`opsoptics` の `spectral`): `blackbody_spectrum` / `cie_illuminant_a` / `led_spectrum` / `bandpass_spectrum` / `silicon_photodiode_qe` / `energy_to_photons` / `spectral_product` / `spectral_integral` / `spectral_stats`、どれも材料の曲線と同じ pairs(λ nm, 値)。光源は CIE A の表を定義式で 1.6e-6、黒体は Wien と Stefan–Boltzmann、QE は閉形式と 4e-19。最良の LED のピークはウェハが厚いほど長波長へ動く(50 µm → 935 nm、775 µm → 1065 nm)。定番の 1050 nm の LED は厚いウェハでは最良と 5 % 差だが、50 µm のダイでは最良の 1/3.4 しか電子が出ない。ウェハが最もよく透ける 1200 nm は、Si センサでは最良の 1/28。集める深さを 3 → 50 µm にすると電子は 16 倍だが、最良のピークは動かない(最適はウェハが決める)。775 µm 越しに CNR 20 を得るには開口 1 画素に 1.2e6 光子が要る。像から測った CNR は理論 e/√(e + 読出し²) と 10 % 以内。ウェハの厚さだけ機械的に焦点を下げると像は t(1 − 1/n) = 557 µm ずれ(W20 = 2.6 波長、回折の PSF)、縁の幅が 8 倍に崩れる。学習 0、較正 0、門 20 件。 `py -3.11 examples/poc_nir_silicon_transmission.py`
 - **材料の光学物性ライブラリ —— 硝材・結晶・半導体・金属・液体・プラスチック 83 種を 1 つの表にし、カタログ公表値と第二実装で採点** — 観察用の光学系(レンズ・窓・鏡・膜)も観察対象(ウェハ・モールド・はんだ)も、見え方は材料の光学特性で決まる。両方が**同じ材料表**を引けるように、硝材・結晶・半導体・金属・液体・プラスチック 83 種を 1 つのレコード型に載せ、波長曲線をすべて同じ形(λ [nm], 値)で返す新 op 16 本(`opsoptics` の `matprop`、実装 `materials`)。数値は refractiveindex.info database(CC0)の一次文献の係数と数表だけ(`tools/gen_material_tables.py` が生成、出典を各区間に残す)。★硝材 46 種(4 社のカタログ、Sellmeier 2 と Schott 多項式): 分散式から計算した n_d / V_d が**カタログ公表値と最大 4e-6 / 0.005**(門は 1e-4 / 0.3)。Abbe 図に 67 材料(プラスチックは同じ n_d の硝子より左、CaF₂ と石英は右端)。**第二実装 optiland 0.6.3**(同じ一次文献を別のコードで評価)と 23 点で最大 5e-10。★Si の NIR 窓(Green 2008): 公表の表の点 n(1.0 µm) 3.572 / k 5.09e-4、k(1.2 µm) 2.1e-7 を再現、吸収係数は 1.0 → 1.2 µm で 64 → 0.022 /cm(3 桁)、775 µm のウェハの透過率は 1.0 µm で 0.3 %・1.2 µm で 52 %(閉形式 (1−R)²e^{−αt}/(1−R²e^{−2αt}) と 1e-9、R = 0.31 の多重反射込み)。自由キャリア吸収(Schroder 1978)は λ² 則と p/n = 2.7 を 1e-9 で、1e19 cm⁻³ の基板は 1.3 µm でそれだけで ×0.27 に暗くなる。平行平板の焦点ずれ t(1 − 1/n) = 556 µm、縦球面収差は NA 0.1 で 1.0 µm・NA の 2 乗。★鏡の材料 10 種(Johnson & Christy / Rakić / Weaver / Werner): 銀は 500 nm で 0.982、アルミの谷は 820 nm で 0.866、金は 500 nm 0.475 → 700 nm 0.971。色は CIE 等色関数から出し、金と銅は R > G > B・銀は 3 成分が 1 % 以内で中性(塗っていない)。斜入射 60° で s 0.953 > p 0.829。★硝子とプラスチック: ポリカーボネートの分散は N-BK7 の 2.3 倍、dn/dT はカタログの式 A で基準温度(20 ℃ / 25 ℃)で Δn = 0、有限差分と 4e-8、N-BK7 の e 線で 1.62e-6 /K。係数の無い材料(PMMA・水)は ValueError で黙って 0 にしない。★取り込み口: .agf(硝材カタログ、Zemax の分散式 1〜13 全部)の雛形を読むと同梱レコードと 0、内部透過率の行から k を復元、自前の Sellmeier 係数と測った曲線(pairs)からもレコードを作れ、区間外は外挿しない。ユーザーのカタログは `FULLSEYE_GLASS_DIR` に置けば同名硝材を照合(無ければ「未配置」と明示)。学習した数 0、較正 0、門 38 件、図なしで 1 秒未満。 `py -3.11 examples/poc_material_optical_library.py`
 
@@ -4108,7 +4108,7 @@ _計 3233 ops / 48 families。並びとノートの在り処は `docs/ops/INDEX.
 #### annotate / paper(23)
 - `annotate_angle` `image2d → image2d` — 画像(image2d)を返す: 3 点のなす角を弧と値で示す(必要なら 2 本の腕も)。 · 例: `paper_figure`
 - `annotate_angle_layout` `入力なし → table` — table(dict)を返す: 3 点 ``a, vertex, b`` のなす角(小さい方)の弧と文字位置。 · 例: `paper_figure`
-- `annotate_colorbar` `image2d × image2d → image2d` — 画像(image2d)を返す: スカラ場を LUT で色分けして重ね、カラーバーを添える。 · 例: `paper_figure`
+- `annotate_colorbar` `image2d × image2d → image2d` — 画像(image2d)を返す: スカラ場を LUT で色分けして重ね、カラーバーを添える。 · 例: `paper_figure`, `poc_thin_film_reflectometry`
 - `annotate_dimension` `image2d → image2d` — 画像(image2d)を返す: 寸法線(両端矢じり + 補助線 + 値と単位)。 · 例: `paper_figure`
 - `annotate_dimension_layout` `入力なし → table` — table(dict)を返す: 寸法線の幾何(寸法線・補助線・文字位置)を閉形式で決める。 · 例: `paper_figure`
 - `annotate_figure_grid` `images → image2d` — 画像(image2d)を返す: 画像 + 見出しを一枚の図に組む(余白一定・パネル文字つき)。 · 例: `paper_figure`, `poc_pixel_shift`

diff --git a/examples/README.md b/examples/README.md
@@ -236,7 +236,7 @@ FULLSEYE_FIGURE_DIR=out/figs py -3.11 examples/<name>.py
 | [`poc_nir_silicon_transmission.py`](poc_nir_silicon_transmission.py)<br>Si ウェハ越しの近赤外透過検査 ―― 光源 × ウェハ × センサの波長積分で LED の波長を選ぶ | Si のダイやウェハの裏側は、Si が透ける近赤外の光で見る。ところが Si が透ける波長は Si のセンサが感じない波長でもあり、同じ材料の吸収端が観察対象では窓・センサでは壁になる。材料表(`materials`)の 1 つの Si のレコード(Green 2008)を、ウェハの透過率とフォトダイオードの QE の両方に使った。新 op 9 本(`spectralrad`、`opsoptics` の `spectral`): `blackbody_spectrum` / `cie_illuminant_a` / `led_spectrum` / `bandpass_spectrum` / `silicon_photodiode_qe` / `energy_to_photons` / `spectral_product` / `spectral_integral` / `spectral_stats`、どれも材料の曲線と同じ pairs(λ nm, 値)。光源は CIE A の表を定義式で 1.6e-6、黒体は Wien と Stefan–Boltzmann、QE は閉形式と 4e-19。最良の LED のピークはウェハが厚いほど長波長へ動く(50 µm → 935 nm、775 µm → 1065 nm)。定番の 1050 nm の LED は厚いウェハでは最良と 5 % 差だが、50 µm のダイでは最良の 1/3.4 しか電子が出ない。ウェハが最もよく透ける 1200 nm は、Si センサでは最良の 1/28。集める深さを 3 → 50 µm にすると電子は 16 倍だが、最良のピークは動かない(最適はウェハが決める)。775 µm 越しに CNR 20 を得るには開口 1 画素に 1.2e6 光子が要る。像から測った CNR は理論 e/√(e + 読出し²) と 10 % 以内。ウェハの厚さだけ機械的に焦点を下げると像は t(1 − 1/n) = 557 µm ずれ(W20 = 2.6 波長、回折の PSF)、縁の幅が 8 倍に崩れる。学習 0、較正 0、門 20 件。 |
 | [`poc_pixel_shift.py`](poc_pixel_shift.py)<br>ピクセルシフト撮像 ―― センサを 1 画素動かすと偽色が消え、半画素動かすと折り返しが消える。MTF は上がらない | 撮像素子を圧電アクチュエータで 1 画素 / 半画素ずつ動かして撮る「ピクセルシフト」が、外観検査で何を増やし何を増やさないか。新 op 6 本(`pixelshift`、`opsoptics` の `pixelshift`): `pixel_shift_pattern` / `pixel_shift_capture`(画素の開口の箱で厳密に積分、Bayer か白黒)/ `pixel_shift_merge`(公称のシフトで格子へ、埋められないシフト列は拒否)/ `pixel_shift_motion_mask` / `false_color_metric` / `pixel_shift_resolution_budget`(sinc × 回折 MTF、Q = λN/p)。1 画素シフト 4 枚は基板の配線・織物・網点・解像チャートで偽色を 0.043〜0.084 から 0 にする(静止・誤差 0 では定義上 0 —— 各画素の R・G・B が同じ開口で同じ点を見る)。半画素シフトでは 0.6〜0.9 cyc/px の縞の FFT の山が、1 枚の折り返し 1 − f₀ から本当の f₀ へ戻り、高さは 0.4·sinc(f₀) と 2e-14 で一致。★傾いたエッジの MTF50 は 1 枚 0.478・半画素 0.475・閉形式 0.467 cyc/px —— シフトで変わるのは折り返しで MTF ではない。drizzle(独立の実装)でも山は 0.700 に立ち、★センサのシフトをそのまま渡すと 0.300(符号の取り違えが折り返しに化ける)。画素 3.45 µm で F 1.4〜22 を振ると 0.7 cyc/px の変調は sinc·回折の閉形式と 0.0008 以内、Q > 1.43 で消え、解像の得は Q = 2 より手前の Q* = 1.47 で尽きる。開口率 0.5 なら 0.8 cyc/px の変調が 3.2 倍。壊れる条件: 1 枚だけ 0.05 px ずれた色の誤差は閉形式 2πf·a·sinc·δ/√2 と 1.2 %、乱数の誤差 σ = 0.1 px で偽色 0.012(1 枚のデモザイク 0.053)。搬送中の部品は 0.25 px/枚 までは 4 枚の破綻(0.161)が 1 枚のデモザイク(0.205)より小さく、0.5 px/枚 から逆転。動き検出で 1 枚に差し戻すと 1 枚の画質の天井に届き、静止部の誤検出 0 %。雑音は R・B が σ/√c、G が σ/√(2c) と 2.1 % 以内、動く縞では枚数を増やすほど誤差が増える(4 → 16 枚で 0.081 → 0.273)。学習 0、較正 0、門 28 件。 |
 | [`poc_tdi_linescan.py`](poc_tdi_linescan.py)<br>TDI ラインスキャンとラインスキャン用レンズ ―― 段数で欠陥が見え、同期がずれると流れ、C マウントでは長いセンサの端が消える | フィルム・鋼板・ウェハのように流れてくるものはラインセンサで撮り、暗いラインでは TDI で N 段ぶん露光を積む。新 op 6 本(`linescan`、`opsoptics` の `linescan`): `tdi_snr`(EMVA 1288 の式 21 を段数倍、電荷加算 / デジタル加算)/ `tdi_sync_mtf`(同期ずれ・ヨーの閉形式)/ `linescan_acquire`(反射率の地図を搬送して撮る: 速度誤差・ヨー・蛇行・エンコーダ同期・レンズ・雑音)/ `lens_field_profile`(像高ごとの照度と MTF を光線追跡で)/ `linescan_lens_columns` / `linescan_lens_example`。★1 段 40 光子の暗い冷延鋼板で、2 枚撮りの時間雑音から測った SNR は式 21 と全段数で 1.2 % 以内。デジタル加算は 64 段で ×8.09(√64 = 8)、電荷加算は読み出し雑音を 1 回しか払わないので ×26.9。薄い傷・ピンホール・異物の検出は 1 段 0 / 3 → 64 段 3 / 3(誤検出 0)。★同期ずれ ε で像が N·ε 画素流れ、流れ方向の MTF は |sinc(f N ε)| —— 閉形式を先に印字し、正弦波の板で 45 条件の最大差 0.0035。速度のうねり ±3 % は自走で局所 MTF 0.64 まで落ち、エンコーダ同期で 1.000 に戻る。ヨーの幅方向のぼけ |sinc(f N sin θ)| はエンコーダでは直らない(9 条件で最大差 0.0017)。★同じ形の三枚玉を 57 mm の像円用(f 90)と 2/3 型用(f 35、C マウントの流用)に作って光線追跡: 照度は cos⁴ × 瞳 × 歪曲に厳密に分かれ(最大差 2e-16)、ラインスキャン用は端で 0.976(cos⁴ は 0.855、樽型歪曲 −2.9 % が ×1.111)、C マウントは像高 19.7 mm から光が届かない。フラットフィールド補正で照度の幅は 0.961 → 1.000 に揃うが、正弦波の変調は補正の前後で差 0.0006(MTF は直らない)、像高 14 mm の異物の CNR は C マウントで 1.52 → 1.54 のまま(ラインスキャン用 2.49)。学習 0、較正 0、門 19 件。 |
-| [`poc_thin_film_reflectometry.py`](poc_thin_film_reflectometry.py)<br>分光反射率で薄膜の膜厚を測る ―― 公開の実測データで採点し、縞・干渉色・FFT とあてはめ・膜厚むらの画像へ | Si 上の SiO₂ の膜厚を反射スペクトルの干渉縞から測る op 5 本(`filmoptics`、`opsoptics` の `film`): `multilayer_reflectance`(転送行列)/ `film_color` / `film_thickness_fft` / `film_thickness_fit` / `film_thickness_map`。膜も基板も材料表(`materials`)の鍵で引く。★主役は他人が測った実物のデータ(どちらも CC BY 4.0): Schwarz ら 2024 の顕微分光では、裸の Si の実測反射率が材料表の Si と中央値 0.4 % 差、SiO₂ の膜厚は直入射のモデルで 92.9 nm(基準 98.5 nm と −5.7 %)、残差が最小の NA 0.5 を入れると 95.8 nm(−2.7 %)。測定点の被覆率は 11 点を平均 0.6 点の誤差で読み返す。同じ試料の実物のカラー顕微鏡写真からは、裸の Si で白を合わせるだけで画素ごとの膜厚が出て中央値 87.5 nm(−11 %、カメラの分光感度は不明)。Sánchez-Arriaga ら 2023 の安価な分光器では、標準 476.3 nm が 5 本すべて 2 % 以内、198.7 nm は中央値 +6.6 % で、1 本は最良の候補が 51 nm に外れて正しい値は 2 番目の候補に残る。FFT 法は 98 nm の膜を自分で「信頼できない」と言う(下限の閉形式 554 nm)。合成の章: 1 層は Airy の式(別実装)と 3e-15、縞の本数は d·Δx と ±1、FFT の下限の閉形式 538 nm と実測 525 nm、材料の取り違え・入射角・NA の偏りは閉形式どおり。公表の色表との色相の一致は 1〜3 次で 59 %(弱い門)。模型のウェハ(彗星は縁まで半径方向、縁の盛り上がり、芯ずれの輪 —— 量は文献表に結びつけ、無いものは模型と明記)では分光 31 帯域の膜厚マップが RMS 0.17 nm、RGB は候補が複数の画素が 14 %。学習 0、門 36 件。 |
+| [`poc_thin_film_reflectometry.py`](poc_thin_film_reflectometry.py)<br>分光反射率で薄膜の膜厚を測る ―― 公開の実測データで採点し、縞・干渉色・FFT とあてはめ・膜厚むらの画像へ | Si 上の SiO₂ の膜厚を反射スペクトルの干渉縞から測る op 5 本(`filmoptics`、`opsoptics` の `film`): `multilayer_reflectance`(転送行列)/ `film_color` / `film_thickness_fft` / `film_thickness_fit` / `film_thickness_map`。膜も基板も材料表(`materials`)の鍵で引く。★主役は他人が測った実物のデータ(どちらも CC BY 4.0): Schwarz ら 2024 の顕微分光では、裸の Si の実測反射率が材料表の Si と中央値 0.4 % 差、SiO₂ の膜厚は直入射のモデルで 92.9 nm(基準 98.5 nm と −5.7 %)、残差が最小の NA 0.5 を入れると 95.8 nm(−2.7 %)。測定点の被覆率は 11 点を平均 0.6 点の誤差で読み返す。同じ試料の実物のカラー顕微鏡写真からは、裸の Si で白を合わせるだけで画素ごとの膜厚が出て中央値 87.4 nm(−11 %、カメラの分光感度は不明)。Sánchez-Arriaga ら 2023 の安価な分光器では、標準 476.3 nm が 5 本すべて 2 % 以内、198.7 nm は中央値 +6.6 % で、1 本は最良の候補が 51 nm に外れて正しい値は 2 番目の候補に残る。FFT 法は 98 nm の膜を自分で「信頼できない」と言う(下限の閉形式 554 nm)。合成の章: 1 層は Airy の式(別実装)と 3e-15、縞の本数は d·Δx と ±1、FFT の下限の閉形式 538 nm と実測 525 nm、材料の取り違え・入射角・NA の偏りは閉形式どおり。公表の色表との色相の一致は 1〜3 次で 59 %(弱い門)。模型のウェハ(彗星は縁まで半径方向、縁の盛り上がり、芯ずれの輪 —— 量は文献表に結びつけ、無いものは模型と明記)では分光 31 帯域の膜厚マップが RMS 0.17 nm、RGB は候補が複数の画素が 14 %。学習 0、門 37 件。 |
 | [`specular_photometric.py`](specular_photometric.py)<br>光沢面の外観検査(specularity 13 op) | Lambertian 前提の形状復元がハイライトで壊れる場所を見せてから、二色性射影分離・影下の頑健最小二乗・偏光分離を順に通し、破綻点(4 灯遮蔽)も隠さず出す。 |
 
 ## 撮像品質 — `imaging_quality`(13 本)
